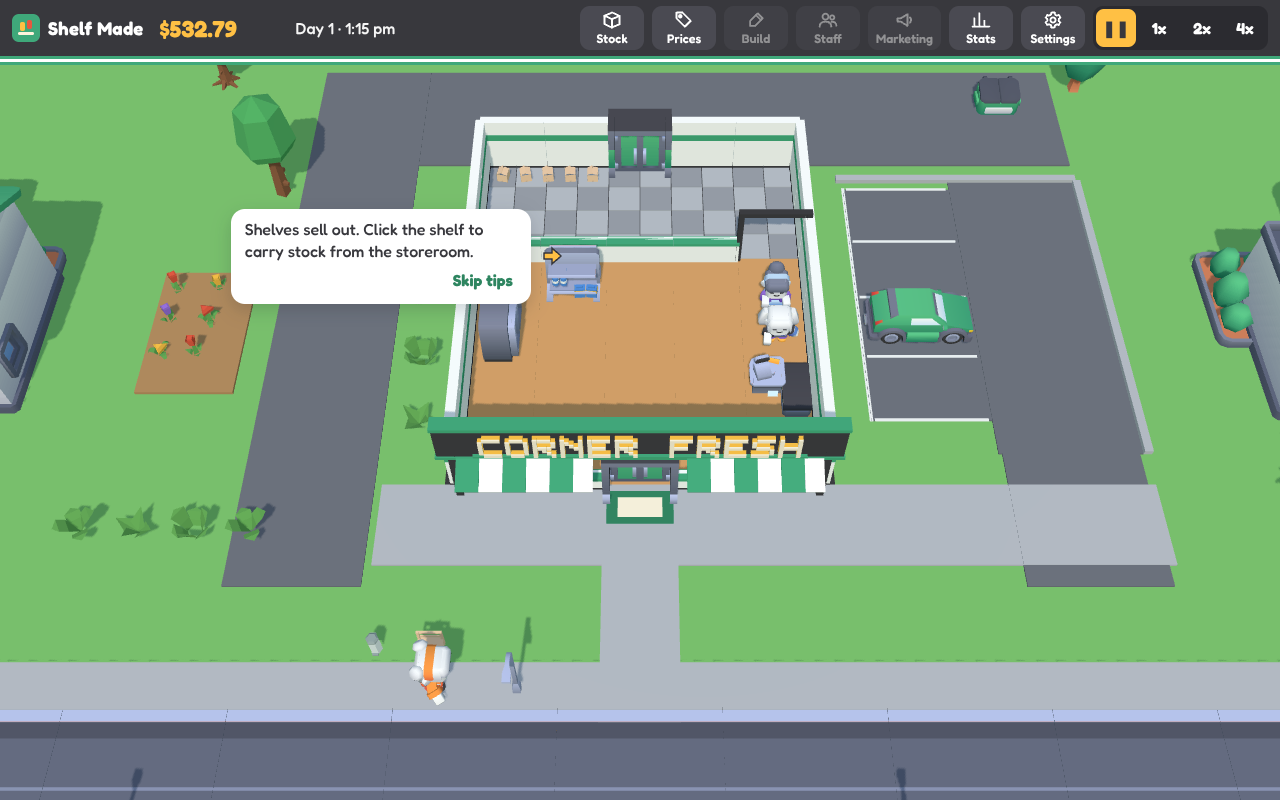
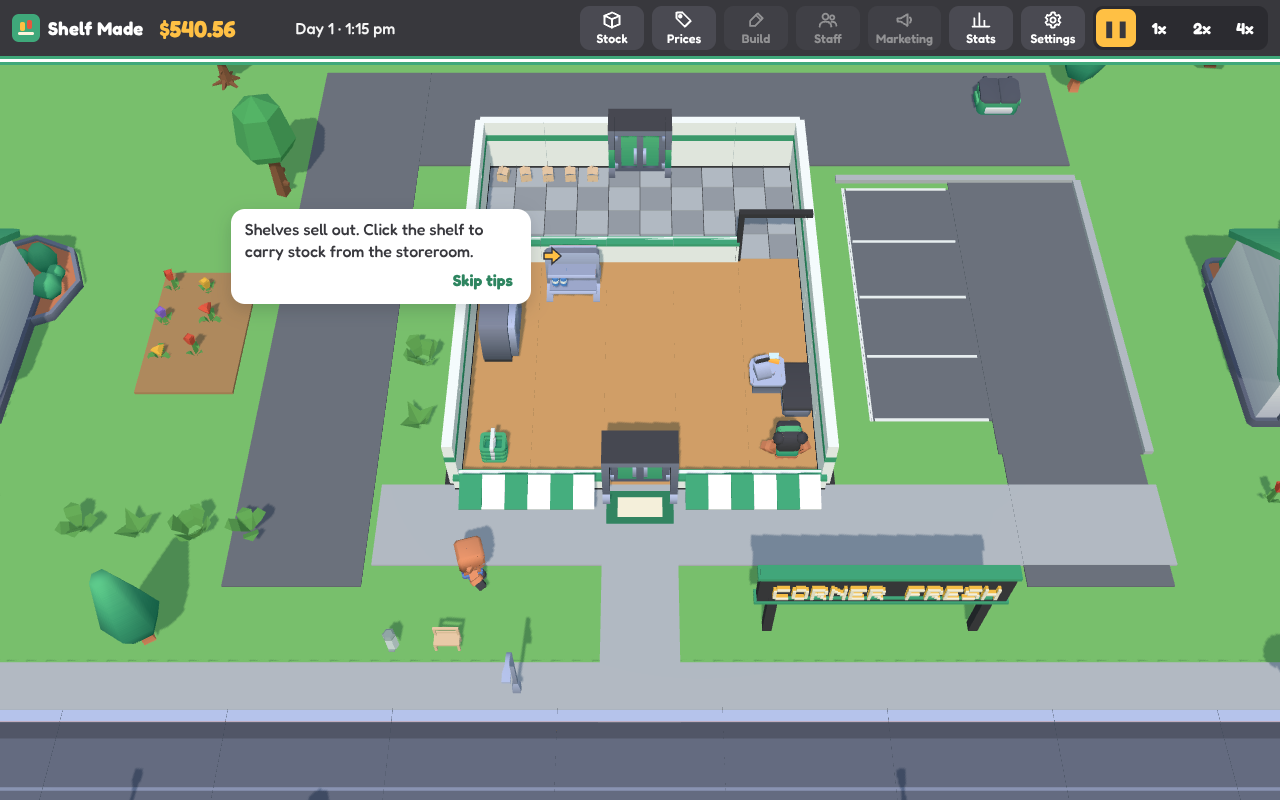
Visual pass: pylon sign, lot paving, night glow, queue bend, nature greens, crowd hook
Claude-Session: https://claude.ai/code/session_01Wj1shrqUFcS7dz22DFHo5W

diff --git a/src/render/StoreView.ts b/src/render/StoreView.ts
@@ -35,7 +35,7 @@ const SLOT_LAYOUT: Partial<Record<FixtureType, SlotLayout>> = {
 export class StoreView {
   readonly group = new Group();
   private shell = new Group();
-  private sides: { full: Mesh; ledge: Mesh; nx: number; nz: number }[] = [];
+  private sides: { full: Mesh; ledge: Mesh; nx: number; nz: number; extraFull?: Mesh[] }[] = [];
   private fixtureMeshes = new Map<string, { mesh: InstancedMesh; ids: number[] }>();
   private shapes!: Record<Shape, ShapeGeo>;
   private productMeshes = new Map<Shape, { body: InstancedMesh; accent: InstancedMesh }>();
@@ -208,42 +208,65 @@ export class StoreView {
     part.castShadow = true; part.receiveShadow = true;
     this.shell.add(part);
 
-    // Sign fascia: two posts, a slate board with the name in cream letters, a green-white awning over the windows.
+    // Awnings: a low one on the ledge (always, so the front keeps its stripes without hiding the floor)
+    // and a high one under the fascia when the front wall is shown at full height.
     const width = f.x1 - f.x0;
-    const fascia: BufferGeometry[] = [];
     const fz = oz + f.z1 + 0.12;
-    fascia.push(box(pal, SLATE, 0.1, 1.55, 0.1, ox + f.x0 + 0.08, 0, fz));
-    fascia.push(box(pal, SLATE, 0.1, 1.55, 0.1, ox + f.x1 - 0.08, 0, fz));
-    fascia.push(box(pal, SLATE, width + 0.2, 0.62, 0.16, ox + (f.x0 + f.x1) / 2, 1.08, fz));
-    fascia.push(box(pal, GREEN, width + 0.24, 0.06, 0.2, ox + (f.x0 + f.x1) / 2, 1.68, fz));
-    fascia.push(box(pal, GREEN, width + 0.24, 0.05, 0.2, ox + (f.x0 + f.x1) / 2, 1.04, fz));
-    // Awning: striped, sloping out over each window side.
-    for (const sideSign of [-1, 1]) {
-      const ax0 = ox + (sideSign < 0 ? f.x0 + 0.15 : shop.door.x + 0.6);
-      const ax1 = ox + (sideSign < 0 ? shop.door.x - 0.6 : f.x1 - 0.15);
-      let k = 0;
-      for (let x = ax0; x < ax1 - 0.01; x += 0.3, k++) {
-        const w = Math.min(0.3, ax1 - x);
-        const g = box(pal, k % 2 ? WHITE : GREEN, w, 0.04, 0.5, 0, 0, 0);
-        g.rotateX(0.35);
-        g.translate(x + w / 2, 0.98, fz + 0.26);
-        fascia.push(g);
+    const awning = (y: number): BufferGeometry[] => {
+      const parts: BufferGeometry[] = [];
+      for (const sideSign of [-1, 1]) {
+        const ax0 = ox + (sideSign < 0 ? f.x0 + 0.12 : shop.door.x + 0.6);
+        const ax1 = ox + (sideSign < 0 ? shop.door.x - 0.6 : f.x1 - 0.12);
+        let k = 0;
+        for (let x = ax0; x < ax1 - 0.01; x += 0.3, k++) {
+          const w = Math.min(0.3, ax1 - x);
+          const g = box(pal, k % 2 ? WHITE : GREEN, w, 0.04, 0.46, 0, 0, 0);
+          g.rotateX(0.38);
+          g.translate(x + w / 2, y, fz + 0.2);
+          parts.push(g);
+        }
       }
-    }
+      return parts;
+    };
+    const lowAwning = new Mesh(merge(awning(LEDGE_HEIGHT + 0.08)), this.assets.material);
+    lowAwning.castShadow = true;
+    this.shell.add(lowAwning);
+    const front = this.sides[0]!;
+    // Fascia (full-height front only): slate board with the name, high awning.
+    const fascia: BufferGeometry[] = [];
+    fascia.push(box(pal, SLATE, width + 0.2, 0.62, 0.16, ox + (f.x0 + f.x1) / 2, 1.0, fz));
+    fascia.push(box(pal, GREEN, width + 0.24, 0.06, 0.2, ox + (f.x0 + f.x1) / 2, 1.6, fz));
+    fascia.push(box(pal, GREEN, width + 0.24, 0.05, 0.2, ox + (f.x0 + f.x1) / 2, 0.96, fz));
+    fascia.push(...awning(0.9));
+    const name = shop.name.toUpperCase();
+    const h = Math.min(0.4, ((width - 0.5) * 7) / (6 * Math.max(1, name.length)));
+    const fasciaLetters = textGeometry(pal, name, h, 0.06, CREAM, YELLOW);
+    place(fasciaLetters, ox + (f.x0 + f.x1) / 2, 1.0 + 0.31 - h / 2, fz + 0.11, 0);
+    fascia.push(fasciaLetters);
     const fasciaMesh = new Mesh(merge(fascia), this.assets.material);
     fasciaMesh.castShadow = true;
     this.shell.add(fasciaMesh);
-    // Letters.
-    const name = shop.name.toUpperCase();
-    const h = Math.min(0.4, ((width - 0.5) * 7) / (6 * Math.max(1, name.length)));
-    const letters = textGeometry(pal, name, h, 0.06, CREAM, YELLOW);
-    void textWidth;
-    place(letters, ox + (f.x0 + f.x1) / 2, 1.08 + 0.31 - h / 2, fz + 0.11, 0);
-    this.signMesh = new Mesh(letters, this.assets.material);
+    front.extraFull = [fasciaMesh];
+    // Pylon sign on the front lawn by the sidewalk: the name reads from the street in every view.
+    const px = ox + 2.9, pz = oz + 2.05;
+    const boardW = 3.0;
+    const pylon: BufferGeometry[] = [];
+    pylon.push(box(pal, SLATE, 0.12, 0.95, 0.12, px - boardW / 2 + 0.2, 0, pz));
+    pylon.push(box(pal, SLATE, 0.12, 0.95, 0.12, px + boardW / 2 - 0.2, 0, pz));
+    pylon.push(box(pal, SLATE, boardW, 0.62, 0.14, px, 0.9, pz));
+    pylon.push(box(pal, GREEN, boardW + 0.06, 0.06, 0.18, px, 1.5, pz));
+    pylon.push(box(pal, GREEN, boardW + 0.06, 0.05, 0.18, px, 0.86, pz));
+    const ph = Math.min(0.34, ((boardW - 0.3) * 7) / (6 * Math.max(1, name.length)));
+    for (const sideYaw of [0, Math.PI]) {
+      const letters = textGeometry(pal, name, ph, 0.05, CREAM, YELLOW);
+      place(letters, px, 0.9 + 0.31 - ph / 2, pz + (sideYaw === 0 ? 0.09 : -0.09), sideYaw);
+      pylon.push(letters);
+      const bracket = box(pal, GREEN, Math.min(boardW - 0.4, textWidth(name, ph) + 0.2), 0.03, 0.04, px, 0.9 + 0.31 - ph / 2 - 0.06, pz + (sideYaw === 0 ? 0.08 : -0.08));
+      pylon.push(bracket);
+    }
+    this.signMesh = new Mesh(merge(pylon), this.assets.material);
+    this.signMesh.castShadow = true;
     this.shell.add(this.signMesh);
-    // Little shelf-bracket underline under the wordmark.
-    const bracket = box(pal, GREEN, Math.min(width - 0.6, textWidth(name, h) + 0.2), 0.035, 0.05, ox + (f.x0 + f.x1) / 2, 1.08 + 0.31 - h / 2 - 0.07, fz + 0.1);
-    this.shell.add(new Mesh(bracket, this.assets.material));
     this.layoutVersion = -1;
     this.stockKey = '';
   }
@@ -256,6 +279,7 @@ export class StoreView {
     for (const s of this.sides) {
       const facing = s.nx * sx + s.nz * cz > 0.25;
       s.full.visible = !facing; s.ledge.visible = facing;
+      if (s.extraFull) for (const m of s.extraFull) m.visible = !facing;
     }
     if (shop.layoutVersion !== this.layoutVersion) { this.rebuildFixtures(shop); this.layoutVersion = shop.layoutVersion; this.stockKey = ''; }
     const key = stockKey(shop);
@@ -411,7 +435,7 @@ export class StoreView {
 
   /** Debug: instanced fixture meshes and their counts. */
   debugFixtures(): unknown {
-    return [...this.fixtureMeshes.entries()].map(([k, v]) => ({ model: k, count: v.mesh.count, ids: v.ids, visible: v.mesh.visible, box: v.mesh.geometry.boundingBox ? 'yes' : (v.mesh.geometry.computeBoundingBox(), v.mesh.geometry.boundingBox?.max.toArray()) }));
+    return [...this.fixtureMeshes.entries()].map(([k, v]) => ({ model: k, count: v.mesh.count, ids: v.ids, visible: v.mesh.visible }));
   }
 
   /** World position of a fixture's top, for tip anchors. */

diff --git a/e2e/debug-char.spec.ts b/e2e/debug-char.spec.ts
@@ -1,23 +1,23 @@
 import { test } from '@playwright/test';
 import { ready, hooks, settle } from './helpers';
 
-test('crowd probe', async ({ page }) => {
+test('vanish probe', async ({ page }) => {
   await ready(page);
-  await hooks(page, 'newGame', 3, 'main', 'Debug', { tutorial: false });
+  await page.getByRole('button', { name: /new game/i }).click();
+  await page.getByRole('button', { name: /^start$/i }).click();
+  await settle(page, 500);
+  await page.getByRole('button', { name: /main street/i }).click();
+  await page.getByPlaceholder(/shop name/i).fill('Corner Fresh');
+  await page.getByRole('button', { name: /open the shop/i }).click();
+  await settle(page, 300);
   await hooks(page, 'setSpeed', 0);
-  await hooks(page, 'advanceScan', 200, 2);
+  await hooks(page, 'advanceNoScan', 75);
+  await hooks(page, 'advanceScan', 200, 2.0);
   const count = () => page.evaluate(() => {
-    const s = (window as unknown as { __shelf: { state: () => { people: { kind: string; state: string; x: number; z: number }[]; today: { customers: number; served: number; walkedOut: number; turnedAway: number }; stuckRescues: number } } }).__shelf.state();
-    const by: Record<string, number> = {};
-    for (const p of s.people) { const k = p.kind + ':' + p.state; by[k] = (by[k] ?? 0) + 1; }
-    return { by, today: s.today, stuck: s.stuckRescues };
+    const s = (window as unknown as { __shelf: { state: () => { people: { id: number; kind: string; state: string; x: number; z: number; carId?: number | null; path: unknown[]; pathIdx: number }[]; today: { customers: number; served: number } } } }).__shelf.state();
+    return s.people.filter((p) => p.kind === 'customer').map((p) => `${p.id}:${p.state}@${p.x.toFixed(1)},${p.z.toFixed(1)}/${p.pathIdx}/${p.path.length}`).join(' ');
   });
-  console.log('before', JSON.stringify(await count()));
   await hooks(page, 'crowd', 10);
-  console.log('spawned', JSON.stringify(await count()));
-  await hooks(page, 'advanceScan', 15, 5);
-  console.log('t+15', JSON.stringify(await count()));
-  await hooks(page, 'advanceScan', 25, 5);
-  console.log('t+40', JSON.stringify(await count()));
-  await settle(page, 100);
+  console.log('t0', await count());
+  for (let i = 1; i <= 6; i++) { await hooks(page, 'advanceScan', 3, 5); console.log(`t${i * 3}`, await count()); }
 });

diff --git a/src/sim/people.ts b/src/sim/people.ts
@@ -39,18 +39,25 @@ function setPath(state: GameState, p: Person, to: Vec2, dyn?: Set<number>): bool
   return true;
 }
 
-/** Queue slot k for a register: straight back from the front, then bending sideways. */
+/** Queue slot k for a register: straight back from the front, then bending toward the middle of the shop. */
 export function queueSlot(state: GameState, reg: Fixture, k: number): Vec2 {
   const front = fixtureFrontWorld(state.shop, reg);
   const f = fixtureFacing(reg.rot);
   const straight = 3;
-  const spacing = 0.62;
-  if (k < straight) return { x: front.x + f.x * k * spacing, z: front.z + f.z * k * spacing };
-  // Bend: perpendicular, to the left of the facing direction.
-  const side = { x: -f.z, z: f.x };
-  const base = { x: front.x + f.x * (straight - 1) * spacing, z: front.z + f.z * (straight - 1) * spacing };
-  const j = k - straight + 1;
-  return { x: base.x + side.x * j * spacing, z: base.z + side.z * j * spacing };
+  const spacing = 0.7;
+  let p: Vec2;
+  if (k < straight) p = { x: front.x + f.x * k * spacing, z: front.z + f.z * k * spacing };
+  else {
+    // Bend toward the shop's centre so the line never runs into a wall.
+    const base = { x: front.x + f.x * (straight - 1) * spacing, z: front.z + f.z * (straight - 1) * spacing };
+    const cx = state.shop.originX + (state.shop.floor.x0 + state.shop.floor.x1) / 2;
+    const cz = state.shop.originZ + (state.shop.floor.z0 + state.shop.floor.z1) / 2;
+    let side = { x: -f.z, z: f.x };
+    if ((cx - base.x) * side.x + (cz - base.z) * side.z < 0) side = { x: f.z, z: -f.x };
+    const j = k - straight + 1;
+    p = { x: base.x + side.x * j * spacing, z: base.z + side.z * j * spacing };
+  }
+  return nearestWalkable(gridFor(state), p, undefined, 4);
 }
 
 function chooseType(state: GameState): CustomerType {

diff --git a/src/render/town.ts b/src/render/town.ts
@@ -145,8 +145,8 @@ export function buildTown(seed: number, plotId: string): TownPlan {
   for (let i = 0; i < 4; i++) P.push({ model: BUSHES[i % BUSHES.length]!, x: sx0 + 0.6 + i * 0.75, z: -1.6 + 0.7, yaw: rng.range(0, 6.28) });
   for (let i = 0; i < 3; i++) P.push({ model: BUSHES[(i + 1) % BUSHES.length]!, x: shopX - 3.1 - i * 0.05, z: -1.6 - 1.0 - i * 1.1, yaw: rng.range(0, 6.28) });
   // Street furniture near the shop: a bench and a bin by the sidewalk, a street sign at the corner.
-  P.push({ model: 'furniture/bench', x: shopX - 2.6, z: ROAD_Z - 1.75, yaw: 0 });
-  P.push({ model: 'furniture/trashcan', x: shopX - 3.3, z: ROAD_Z - 1.75, yaw: 0 });
+  P.push({ model: 'furniture/bench', x: shopX - 2.4, z: ROAD_Z - 1.8, yaw: 0 });
+  P.push({ model: 'furniture/trashcan', x: shopX - 3.1, z: ROAD_Z - 1.8, yaw: 0 });
   P.push({ model: 'roads/sign-street', x: crossXs[0]! + 1.9, z: ROAD_Z - 1.9, yaw: 0 });
   P.push({ model: 'roads/sign-street', x: crossXs[1]! - 1.9, z: ROAD_Z + 1.9, yaw: Math.PI });
   P.push({ model: 'roads/dumpster', x: shopX + STARTER.backYard.x1 - 1.0, z: -1.6 + STARTER.backYard.z0 + 0.8, yaw: Math.PI / 2 });

diff --git a/DECISIONS.md b/DECISIONS.md
@@ -9,3 +9,11 @@ One line each, newest at the bottom.
 - Playwright pins `executablePath` to the preinstalled Chromium with SwiftShader so screenshots and perf run headless in CI containers without a GPU.
 - Sim tick is 50 ms of game time; the renderer interpolates, so 4x stays smooth without a variable-step sim.
 - Fredoka is bundled as a latin-only woff2 (30 KB) plus the full variable TTF in third_party for the record.
+- Three.js samples the atlas with `flipY = false` and generated geometry uses glTF's v-down UV convention, so one texture serves both converted models and generated pieces.
+- Quantised GLB attributes are expanded to Float32 at load; merging and transforming interleaved or normalised attributes was the source of the "missing neighbourhood" and "exploded people" bugs.
+- Character variety is done by shifting colormap strips per triangle at load (outfit permutations, three skin tones), not by extra textures: 13 meshes become 52 looks for free.
+- The shop name lives on a free-standing pylon sign by the sidewalk; a fascia sign over the door only shows when the camera looks at the back of the store, because a front fascia hid the whole front row of the floor from the default camera.
+- Nature Kit greens are remapped to the town's grass greens at conversion (Kenney's are mint), so trees match roofs and lawns.
+- Screenshot runs disable CSS animations: headless SwiftShader renders so slowly that fades were caught half-way.
+- Kenney's cash register, standing fridge and end cap have their pivot on the front face; the renderer centres them in their tile with a per-type offset rather than editing the packs.
+- The checkout line bends toward the shop's centre and every slot snaps to a walkable cell, so lines never run through a wall.

diff --git a/STATUS.md b/STATUS.md
@@ -5,14 +5,14 @@ Build log for the unattended build session. Updated after every slice.
 ## Slices
 
 ### Part 1: the look and the first five minutes
-- [ ] S0 Scaffold: Vite + strict TS + React + three.js, lint, tests, e2e, CI, docs.
-- [ ] S1 Assets: Kenney packs converted to optimised GLB; style guide; art audit.
-- [ ] S2 World: neighbourhood (road, lot, houses, rivals, trees, lamps), camera, lighting.
-- [ ] S3 Store: walls with ledges, floors, sign, register, shelf, fridge, storeroom, products.
-- [ ] S4 People & cars: paths, queueing, animations, traffic, parking.
-- [ ] S5 Core loop: scan, pay, order, deliver, carry, price, day/night, night card.
-- [ ] S6 First five minutes: lobby, plot picker, naming, guided tips, rewards.
-- [ ] S7 UI polish, audio, saves, settings, screenshots, perf.
+- [x] S0 Scaffold: Vite + strict TS + React + three.js, lint, tests, e2e, CI, docs.
+- [x] S1 Assets: Kenney packs converted to optimised GLB; style guide; art audit.
+- [x] S2 World: neighbourhood (road, lot, houses, rivals, trees, lamps), camera, lighting.
+- [x] S3 Store: walls with ledges, floors, sign, register, shelf, fridge, storeroom, products.
+- [x] S4 People & cars: paths, queueing, animations, traffic, parking.
+- [x] S5 Core loop: scan, pay, order, deliver, carry, price, day/night, night card.
+- [x] S6 First five minutes: lobby, plot picker, naming, guided tips, rewards.
+- [x] S7 UI polish, audio, saves, settings, screenshots, perf (first pass; polish continues alongside Part 2).
 
 ### Part 2: deeper systems
 - [ ] P1 Customers (four types, scoring, patience, reputation)
